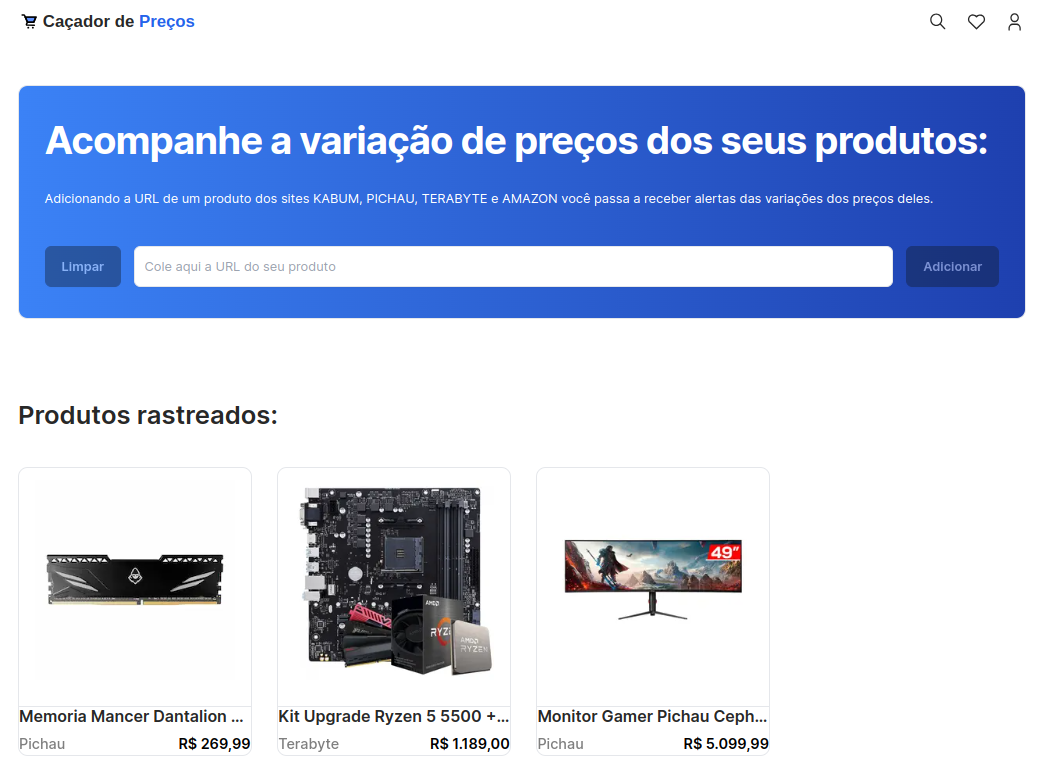
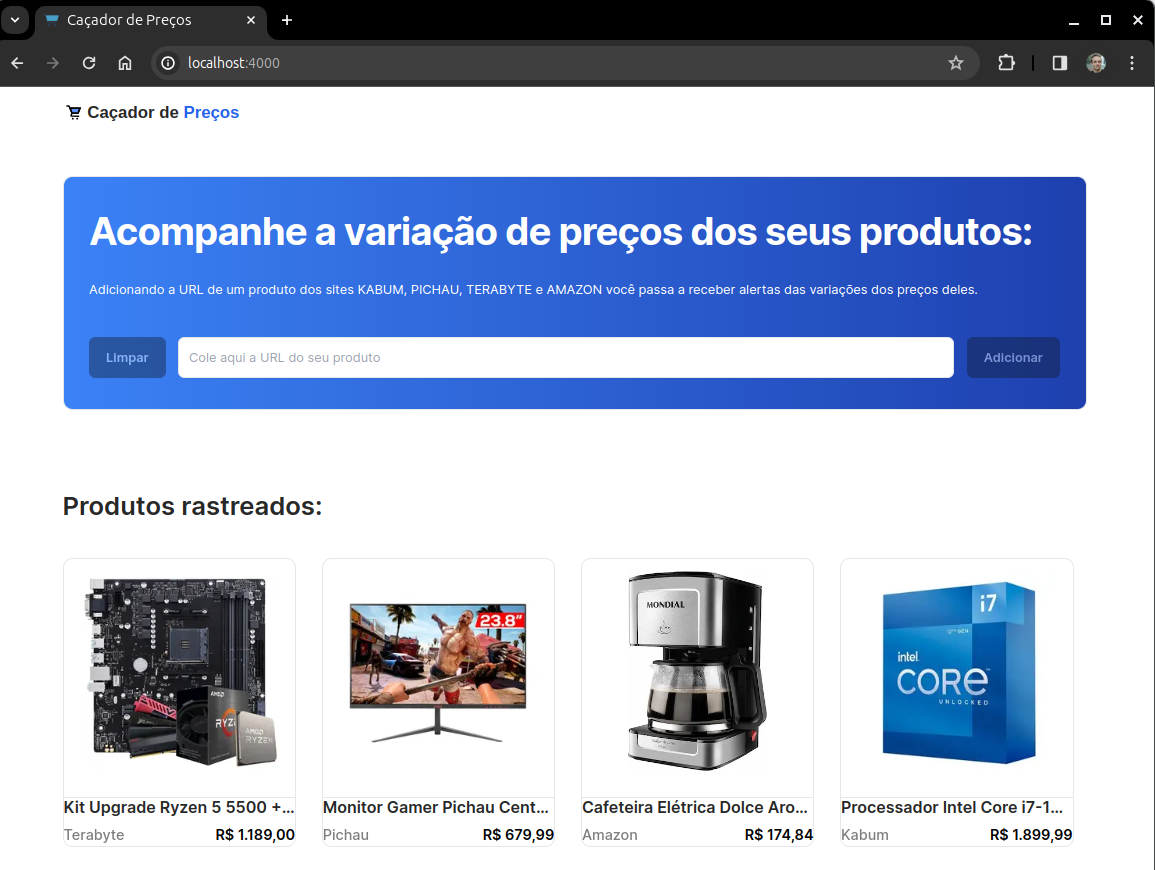
Ajustando o Readme, e adicionando duas novas fotos do projeto

diff --git a/README.md b/README.md
@@ -4,7 +4,17 @@ Hello everyone, I made this project to track the price trends of some products I
 
 For now, this project only runs on localhost as it faces some issues regarding security policies to execute the crawling operation on serverless platforms.
 
+Check the online version here:
+https://cacador-de-precos.vercel.app/
+Important: The function to add a new product will not work due to Vercel's security policies regarding the use of Puppeteer. In topic 8 below, I explain how to perform this process automatically on your computer.
+
+## Main Page
+
 ![Principal Image](public/assets/images/main-page.png)
+
+## Product Page
+
+![Product Image](public/assets/images/product-page.png)
 
 ## Technology
 
@@ -24,6 +34,7 @@ Here are the technologies used in this project.
 ## Services Used
 
 - Github
+- Linux Crontab Jobs
 
 ## Links
 
@@ -82,9 +93,24 @@ Here are the technologies used in this project.
    npm run dev
    ```
 
-Now, you should be able to access the project at `http://localhost:3000`.
+   Now, you should be able to access the project at `http://localhost:4000`.
 
-Please note that the project requires the 'm.media-amazon.com', 'media.pichau.com.br', '*.kabum.com.br' and '*.terabyteshop.*' domain to be accessible for image handling. If you are unable to access this domain, you may encounter issues with image loading.
+8. **Configure the localhost server**
+
+   Oper your terminal and run the following command:
+
+   ```bash
+   sudo crontab -e
+   ```
+
+   And add this two lines one your crontab to run the project every 30 minutes and the http request every 6 hours:
+
+   ```bash
+   30 * * * * cd /home/jonas-ubu/Documentos/GitHub/cacador-de-precos && npm start
+   0 */6 * * * curl http://localhost:4000/api/cron
+   ```
+
+Please note that the project requires the 'm.media-amazon.com', 'media.pichau.com.br', 'kabum.com.br' and 'terabyteshop.\*' domain to be accessible for image handling. If you are unable to access this domain, you may encounter issues with image loading.
 
 ## Authors
 
